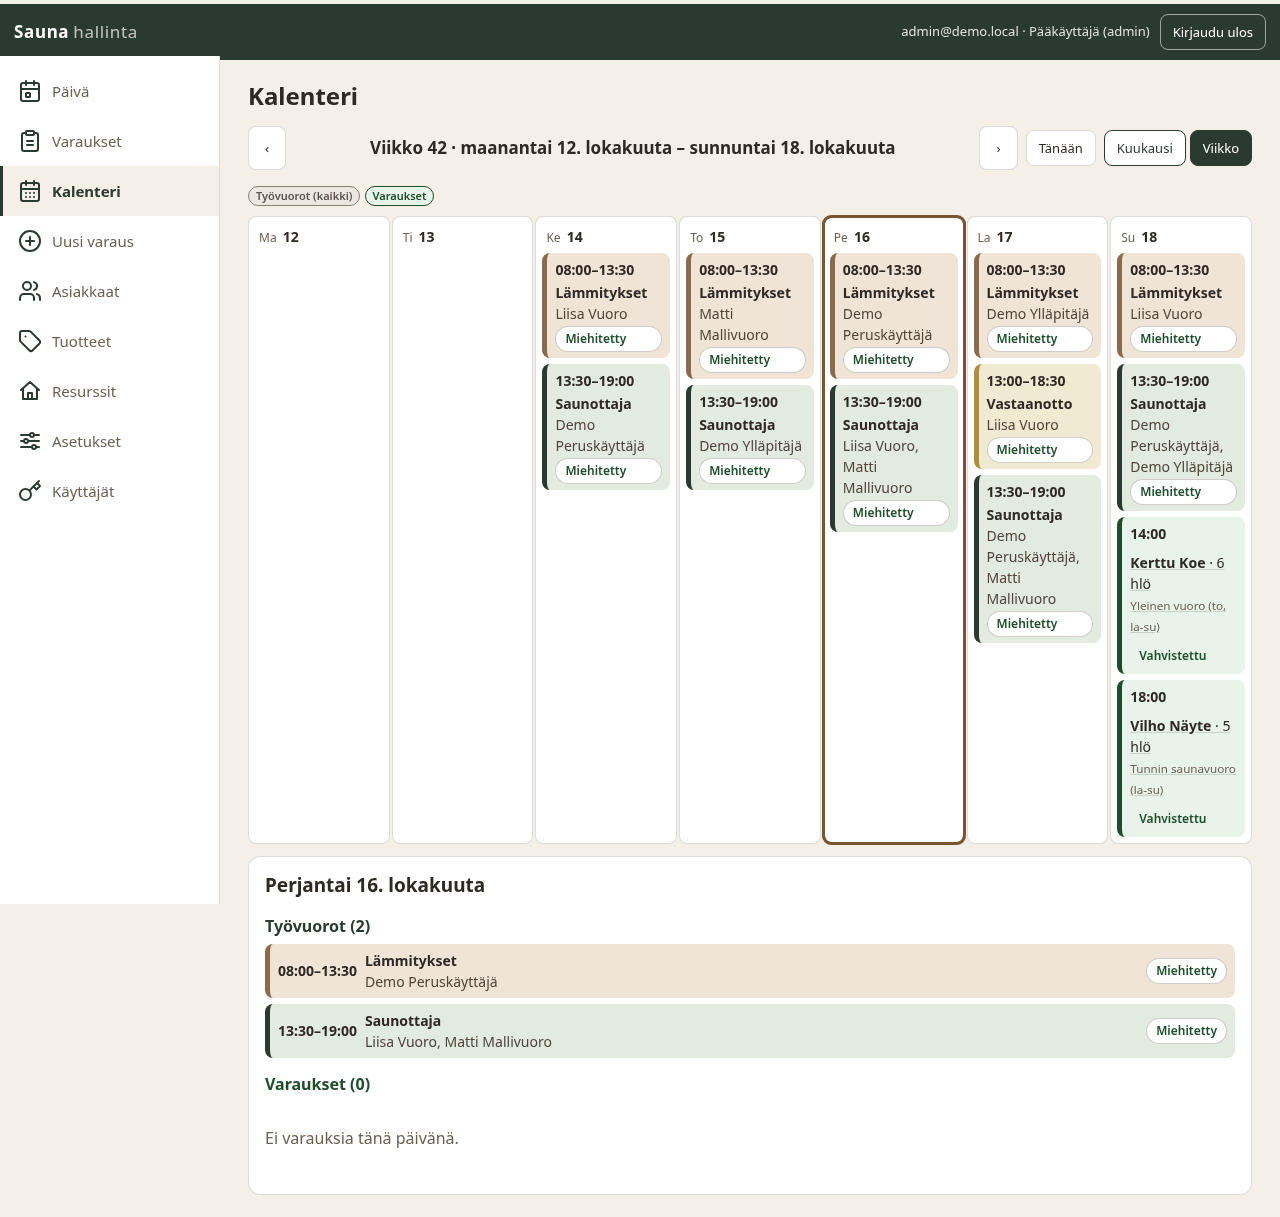
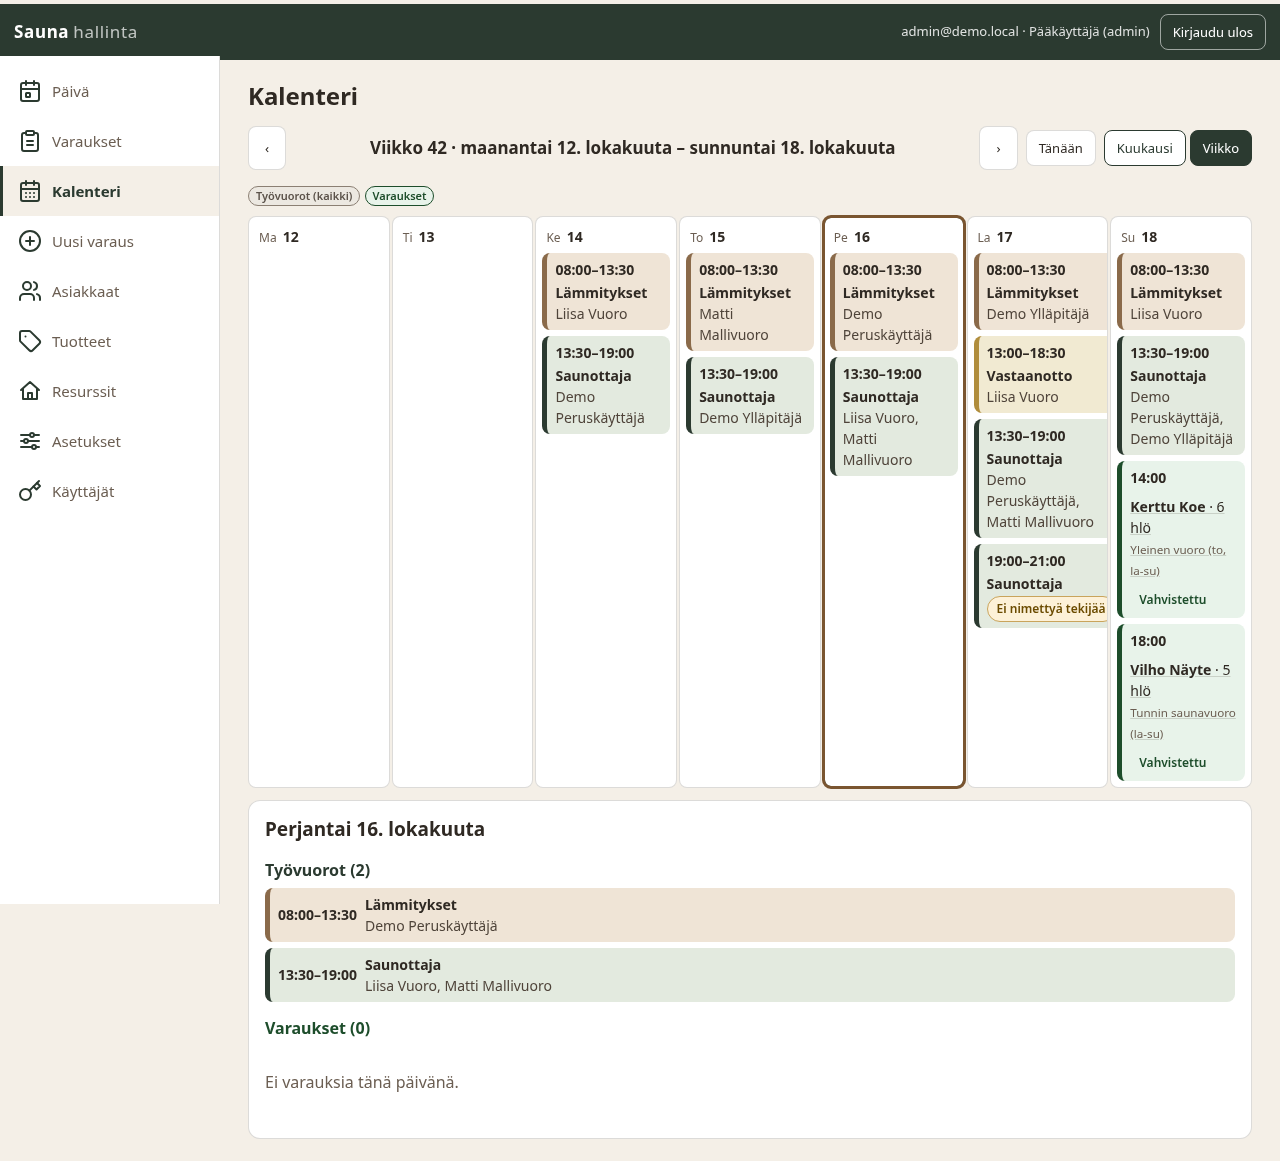
Hallinta: Miehitetty-merkki pois, ilmoitus vain nimeämättömille vuoroille

diff --git a/booking/admin/views/calendar.js b/booking/admin/views/calendar.js
@@ -19,9 +19,10 @@ export const roleLabel = (s) => ROLE_FI[String(s.role_type || '').toLowerCase()]
 const KIND_CLASS = { heater: 'shift-heater', therapist: 'shift-therapist', saunottaja: 'shift-therapist', hoitaja: 'shift-therapist', reception: 'shift-reception' };
 const NAME_CLASS = [[/lämmit/i, 'shift-heater'], [/saunottaja|hoitaja/i, 'shift-therapist'], [/vastaanot/i, 'shift-reception']];   // tuntematon koodi → kalenterin nimestä
 export const shiftClass = (s) => KIND_CLASS[String(s.role_type || '').toLowerCase()] || (NAME_CLASS.find(([re]) => re.test(s.calendar_name || '')) || [])[1] || 'shift-other';
-const STAFFING = { assigned: 'Miehitetty', full: 'Miehitetty', unassigned: 'Avoin', open: 'Avoin', partial: 'Osittain' };
-export const staffingLabel = (v) => STAFFING[String(v).toLowerCase()] || v;
-const staffingTone = (v) => (['open', 'unassigned'].includes(String(v).toLowerCase()) ? 'warn' : 'ok');
+// Miehitysmerkki: näytetään AINOASTAAN jos vuorolle ei ole nimetty ketään. Ensisijaisesti nimettyjen henkilöiden perusteella (staff_name / names);
+// staffing_status (assigned/full/partial/open/unassigned) ei tuota merkkiä, jos nimettyjä on – data ei kerro tarvittua määrää, joten ei nimettyjä = ilmoitus, muuten ei mitään.
+export const NO_ASSIGNEE = 'Ei nimettyä tekijää';
+export const needsNotice = (s) => !(s.names && s.names.length);
 function isoWeek(ds) { const d = new Date(`${ds}T12:00:00Z`); const day = (d.getUTCDay() + 6) % 7; d.setUTCDate(d.getUTCDate() - day + 3); const y = d.getUTCFullYear(); const j = new Date(Date.UTC(y, 0, 4)); return 1 + Math.round(((d - j) / 864e5 - 3 + ((j.getUTCDay() + 6) % 7)) / 7); }
 
 export async function render({ ctx, refs, reload }) {
@@ -53,8 +54,8 @@ export async function render({ ctx, refs, reload }) {
   const shiftItem = (s) => h('li', { class: `cal-item shift ${shiftClass(s)}`, 'data-kind': 'shift' },
     h('span', { class: 'cal-time', text: `${fmtTime(s.starts_at)}–${fmtTime(s.ends_at)}` }),
     h('span', { class: 'cal-txt' }, h('strong', { text: roleLabel(s) }),
-      h('br'), h('span', { text: s.names.length ? s.names.join(', ') : 'Ei nimettyä henkilöä' })),
-    s.staffing_status ? badge(staffingTone(s.staffing_status), staffingLabel(s.staffing_status)) : null);
+      s.names.length ? [h('br'), h('span', { text: s.names.join(', ') })] : null),
+    needsNotice(s) ? badge('warn', NO_ASSIGNEE) : null);
   const bookingItem = (r) => h('li', { class: 'cal-item booking', 'data-kind': 'booking' },
     h('span', { class: 'cal-time', text: fmtTime(r.starts_at) }),
     h('button', { type: 'button', class: 'link cal-txt', onclick: () => reservationDialog(r, { methods: refs.methods, onChange: () => draw() }) }, h('strong', { text: r.customer_name || '–' }), ` · ${r.persons} hlö`, h('br'), h('small', { text: r.product_name || '' })),

diff --git a/booking/docs/roolit-ja-kb.md b/booking/docs/roolit-ja-kb.md
@@ -83,7 +83,7 @@ Totuus on Google Calendar → Työvuoro-Tapio-synkka → `public.work_shifts`. V
 * palauttaa vain: `shift_id, starts_at, ends_at, role_type, calendar_name, staffing_status, staff_name` (**ei** puhelinta, sähköpostia, muistiinpanoja eikä kalenteri-id:tä); yksi rivi per nimetty työntekijä;
 * enintään 62 päivän aikaväli (muuten virhe `range_too_long`; +1 h liikkumavara kesäaikasiirtymälle), käänteinen/tyhjä väli → `invalid_range`;
 * `shifts.view_all` (admin, manager) näkee kaikki; `shifts.view` (staff) vain omat vuoronsa linkin `booking.staff.public_staff_id` kautta (ei linkkiä → tyhjä lista; omalta vuorolta ei näy kollegojen nimiä); ei kumpaakaan oikeutta → virhe `forbidden`.
-* **Näyttö suomeksi (v10, vain frontend, ei SQL-muutosta):** hallinnan kalenteri (`admin/views/calendar.js`) kartoittaa `role_type`-koodit kiinteästi suomeksi: `heater` → Lämmitykset, `reception` → Vastaanotto, `therapist` → Saunottaja. Tuntemattomalle koodille näytetään `calendar_name` (sana "Hoitaja" → "Saunottaja") tai koodi sellaisenaan. `staffing_status`: `assigned`/`full` → Miehitetty, `unassigned`/`open` → Avoin, `partial` → Osittain (avoin korostetaan keltaisella), muut arvot näytetään sellaisenaan. Koodia ei näytetä käyttäjälle. Työvuorokortin väri määräytyy roolista (`calendar.css`, luokat `.shift-heater`, `.shift-therapist`, `.shift-reception`, `.shift-other`; hillityt maavärit, ei sinistä): Lämmitykset hiekka/ruskea (`#efe4d6` / reuna `#8a6a4a`), Saunottaja vaimea vihreä (`#e3eadf` / `#2b3a30`), Vastaanotto vaimea okra (`#f1ead2` / `#b08d3c`), muu neutraali beige (`#ece8e1` / `#8b7f73`). Teksti vs. tausta ≥ 7,5:1 (WCAG AA vaatii 4,5:1); e2e-testi tarkistaa kontrastin, ettei väri ole sininen ja että roolien värit eroavat.
+* **Näyttö suomeksi (v10, vain frontend, ei SQL-muutosta):** hallinnan kalenteri (`admin/views/calendar.js`) kartoittaa `role_type`-koodit kiinteästi suomeksi: `heater` → Lämmitykset, `reception` → Vastaanotto, `therapist` → Saunottaja. Tuntemattomalle koodille näytetään `calendar_name` (sana "Hoitaja" → "Saunottaja") tai koodi sellaisenaan. **Miehitysmerkki (v12):** työvuorokortissa ei näytetä "Miehitetty"/"Osittain"/"Avoin"-merkkiä lainkaan. Ainoa merkki on hillityllä ruskehtavan keltaisella "Ei nimettyä tekijää", ja se näytetään vain jos vuorolle ei ole nimettyä henkilöä (ei yhtään `staff_name`-arvoa). Ratkaisu tehdään ensisijaisesti nimettyjen perusteella; `staffing_status` ei tuota merkkiä, jos nimettyjä on (tarvittua määrää ei tiedetä, joten ei nimettyjä = ilmoitus, muuten ei merkkiä). Koodia ei näytetä käyttäjälle. Työvuorokortin väri määräytyy roolista (`calendar.css`, luokat `.shift-heater`, `.shift-therapist`, `.shift-reception`, `.shift-other`; hillityt maavärit, ei sinistä): Lämmitykset hiekka/ruskea (`#efe4d6` / reuna `#8a6a4a`), Saunottaja vaimea vihreä (`#e3eadf` / `#2b3a30`), Vastaanotto vaimea okra (`#f1ead2` / `#b08d3c`), muu neutraali beige (`#ece8e1` / `#8b7f73`). Teksti vs. tausta ≥ 7,5:1 (WCAG AA vaatii 4,5:1); e2e-testi tarkistaa kontrastin, ettei väri ole sininen ja että roolien värit eroavat.
 
 `public`-taulujen lukuoikeus annetaan vain funktion omistajalle (SECURITY DEFINER): `authenticated`/`anon` eivät saa suoria oikeuksia `public`-tauluihin (testikanta todistaa tämän: mockiin ei anneta GRANTteja).
 
